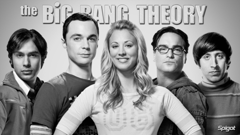
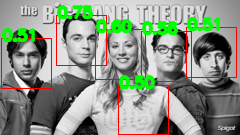
fix: diff 방향, grad_angle 정규화, matrix indexing, histo_nomalization 분모 수식, ncc 수식,

Changed region(s): [[0.0, 0.0296, 0.9917, 1.0]]

diff --git a/HW2/HOG_ver1.py b/HW2/HOG_ver1.py
@@ -12,8 +12,8 @@ def get_differential_filter():
         filter_y : 2D filter (3 x 3)
     '''
 
-    filter_x = np.array([[+1, 0, -1], [+1, 0, -1], [+1, 0, -1]])
-    filter_y = np.array([[+1, +1, +1], [0, 0, 0], [-1, -1, -1]])
+    filter_x = np.array([[-1, 0, 1], [-1, 0, 1], [-1, 0, 1]])
+    filter_y = np.array([[-1, -1, -1], [0, 0, 0], [1, 1, 1]])
 
     return filter_x, filter_y
 
@@ -58,7 +58,7 @@ def get_gradient(im_dx, im_dy):
     for i in range(im_dx.shape[0]):
         for j in range(im_dx.shape[1]):
             grad_mag[i, j] = np.sqrt(im_dx[i, j]**2 + im_dy[i, j]**2)
-            grad_angle[i, j] = np.arctan2(im_dy[i, j], im_dx[i, j])
+            grad_angle[i, j] = np.arctan2(im_dy[i, j], im_dx[i, j]) % np.pi
 
     return grad_mag, grad_angle
 
@@ -84,16 +84,16 @@ def build_histogram(grad_mag, grad_angle, cell_size):
 
     for i in range(M):
         for j in range(N):
-            x_idx_start = i * cell_size
-            y_idx_start = j * cell_size
+            row_idx_start = j * cell_size
+            col_idx_start = i * cell_size
 
             for k in range(cell_size):
                 for l in range(cell_size):
-                    x_idx = x_idx_start + k
-                    y_idx = y_idx_start + l
+                    row_idx = row_idx_start + k
+                    col_idx = col_idx_start + l
                     
-                    angle = grad_angle[x_idx, y_idx]
-                    mag = grad_mag[x_idx, y_idx]
+                    angle = grad_angle[row_idx, col_idx]
+                    mag = grad_mag[row_idx, col_idx]
 
                     if    0 <= angle < np.pi/12 or 11*np.pi/12 <= angle < np.pi:    ori_histo[i, j, 0] += mag
                     elif np.pi/12   <= angle < np.pi/4:                             ori_histo[i, j, 1] += mag
@@ -123,7 +123,7 @@ def get_block_descriptor(ori_histo, block_size):
     for i in range(M - block_size + 1):
         for j in range(N - block_size + 1):
             block_ori_histo = ori_histo[i:i+block_size, j:j+block_size, :].flatten()
-            ori_histo_normalized[i, j, :] = block_ori_histo / np.sqrt(np.linalg.norm(block_ori_histo)**2 + (1e-3)**2)
+            ori_histo_normalized[i, j, :] = block_ori_histo / np.sqrt(np.linalg.norm(block_ori_histo) + (1e-3)**2)
 
     return ori_histo_normalized
 
@@ -196,8 +196,8 @@ def IoU(box1, box2, box_size):
         iou : float
     '''
 
-    x1, y1, _, = box1
-    x2, y2, _, = box2
+    x1, y1, ncc1 = box1
+    x2, y2, ncc2 = box2
     
     box1_coords = [x1, y1, x1 + box_size[0], y1 + box_size[1]]
     box2_coords = [x2, y2, x2 + box_size[0], y2 + box_size[1]]
@@ -233,32 +233,38 @@ def NCC(hog_target, hog_template):
         ncc : float
     '''
 
-    target_avg = np.mean(hog_target)
-    template_avg = np.mean(hog_template)
+    a = hog_target - np.mean(hog_target)
+    b = hog_template - np.mean(hog_template)
 
-    ncc = np.sum((hog_target - target_avg)*(hog_template - template_avg)) / np.sqrt(np.sum((hog_target - target_avg)**2) * np.sum((hog_template - template_avg)**2))
+    numerator = np.dot(a, b)
+    denominator = np.linalg.norm(a) * np.linalg.norm(b)
 
-    return ncc
+    return numerator / denominator if denominator != 0 else 0.0
 
 
 def NMS(bounding_boxes, box_size, iou_threshold = 0.5):
     '''
     Input :
-        bounding_boxes : 2D array (k x 5) (x, y, ncc, template_x, template_y)
+        bounding_boxes : 2D array (k x 3) (x, y, ncc)
         iou_threshold : float
     Output :
         bounding_boxes : 2D array (k x 3)
     '''
     
     bounding_boxes = sorted(bounding_boxes, key=lambda x: x[2], reverse=True)
-    filtered_boxes = np.array([])
+
+    filtered_boxes = []
     for box in bounding_boxes:
         if len(filtered_boxes) == 0:
-            filtered_boxes = np.append(filtered_boxes, box)
+            filtered_boxes.append(box)
         else:
-            if IoU(box, filtered_boxes[-1], box_size) < iou_threshold:
-                filtered_boxes = np.append(filtered_boxes, box)
-
+            for filtered_box in filtered_boxes:
+                if IoU(box, filtered_box, box_size) > iou_threshold:
+                    break
+            else:
+                filtered_boxes.append(box)
+    filtered_boxes = np.array(filtered_boxes)
+    
     return filtered_boxes
 
 
@@ -290,12 +296,13 @@ def face_recognition(I_target, I_template):
             target_hog = extract_hog(I_target[i:i+template_y, j:j+template_x])
             ncc = NCC(target_hog, template_hog)
             if ncc > 0.5:
-                bounding_boxes.append([i, j, ncc])
+                bounding_boxes.append([j, i, ncc])
 
     # NMS
+    print(bounding_boxes)
     box_size = [template_x, template_y]
-    bounding_boxes = NMS(bounding_boxes, iou_threshold = 0.5, box_size = box_size)
-
+    bounding_boxes = NMS(bounding_boxes, box_size)
+    print(bounding_boxes)
     return bounding_boxes
 
 
